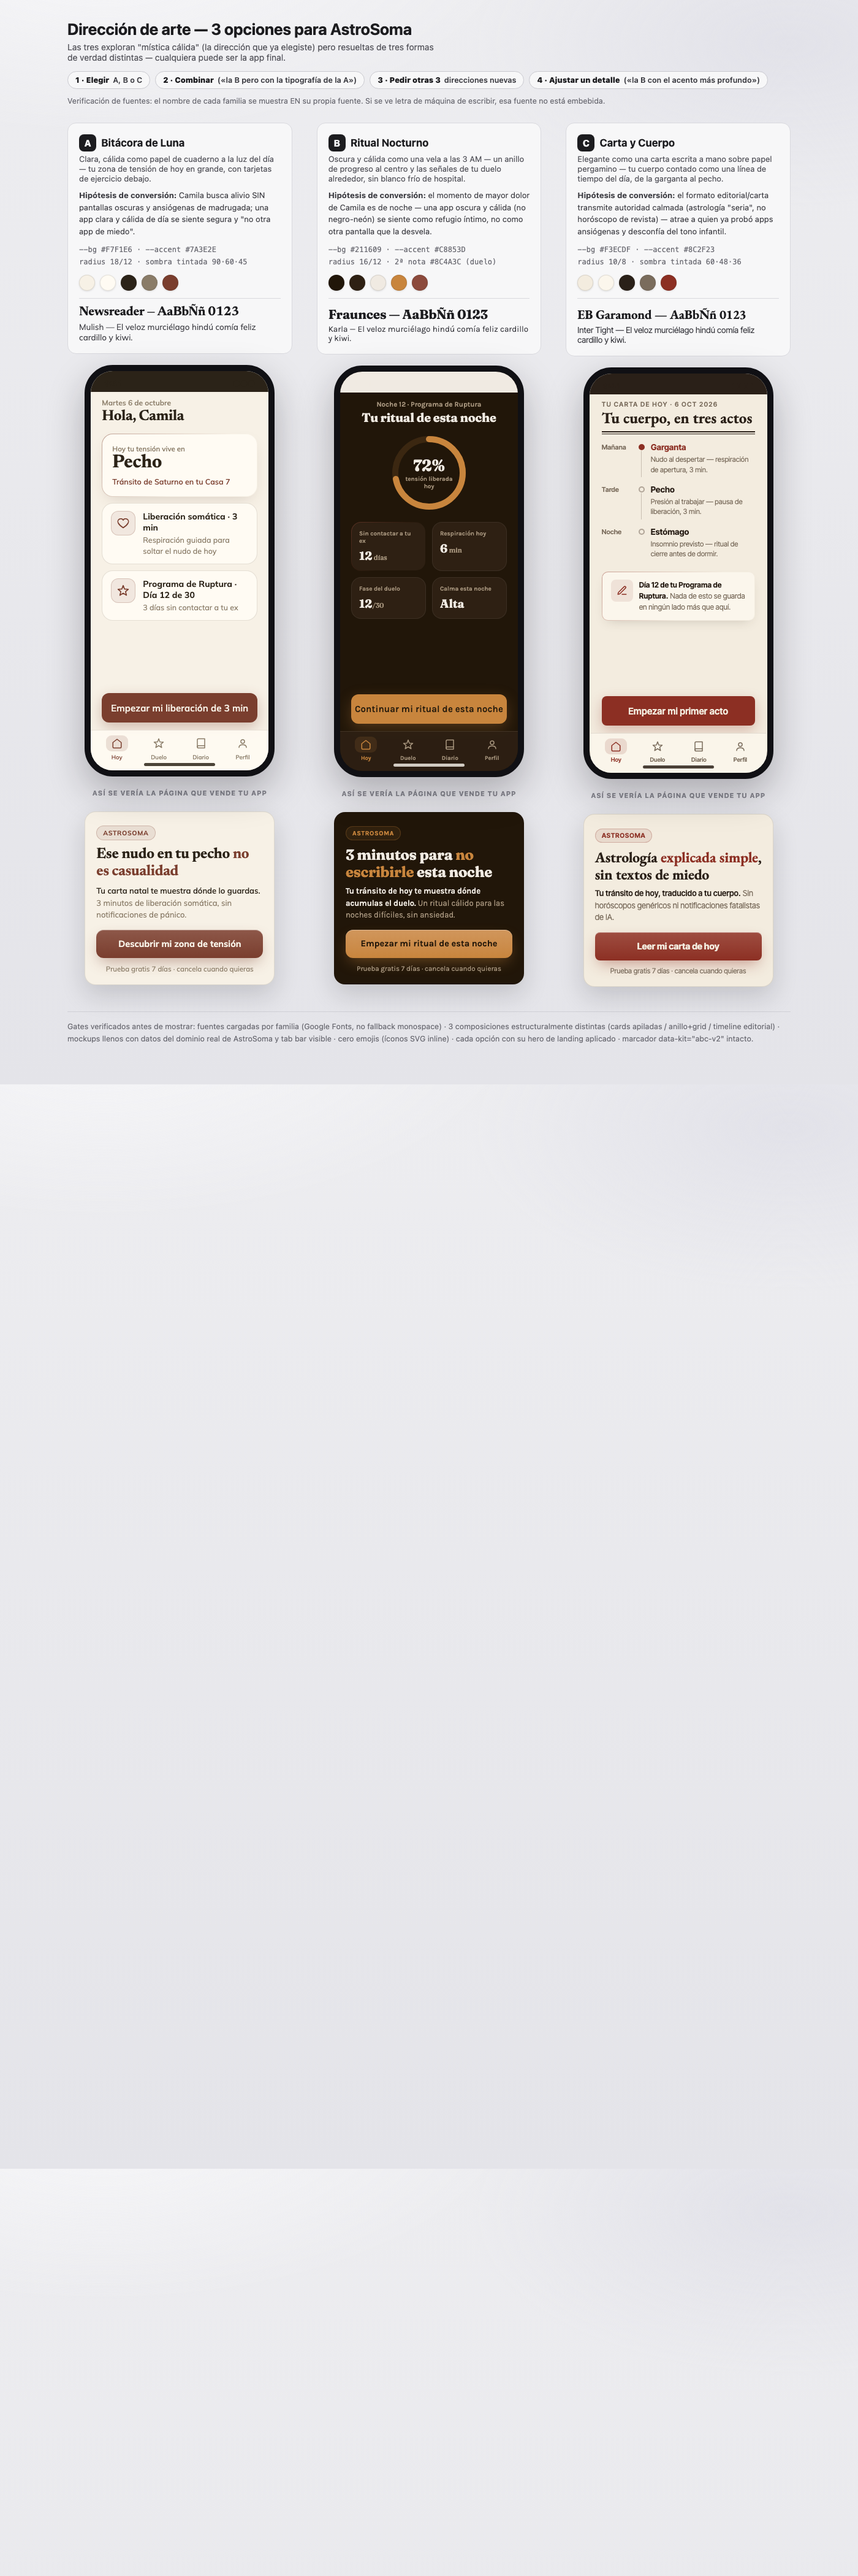
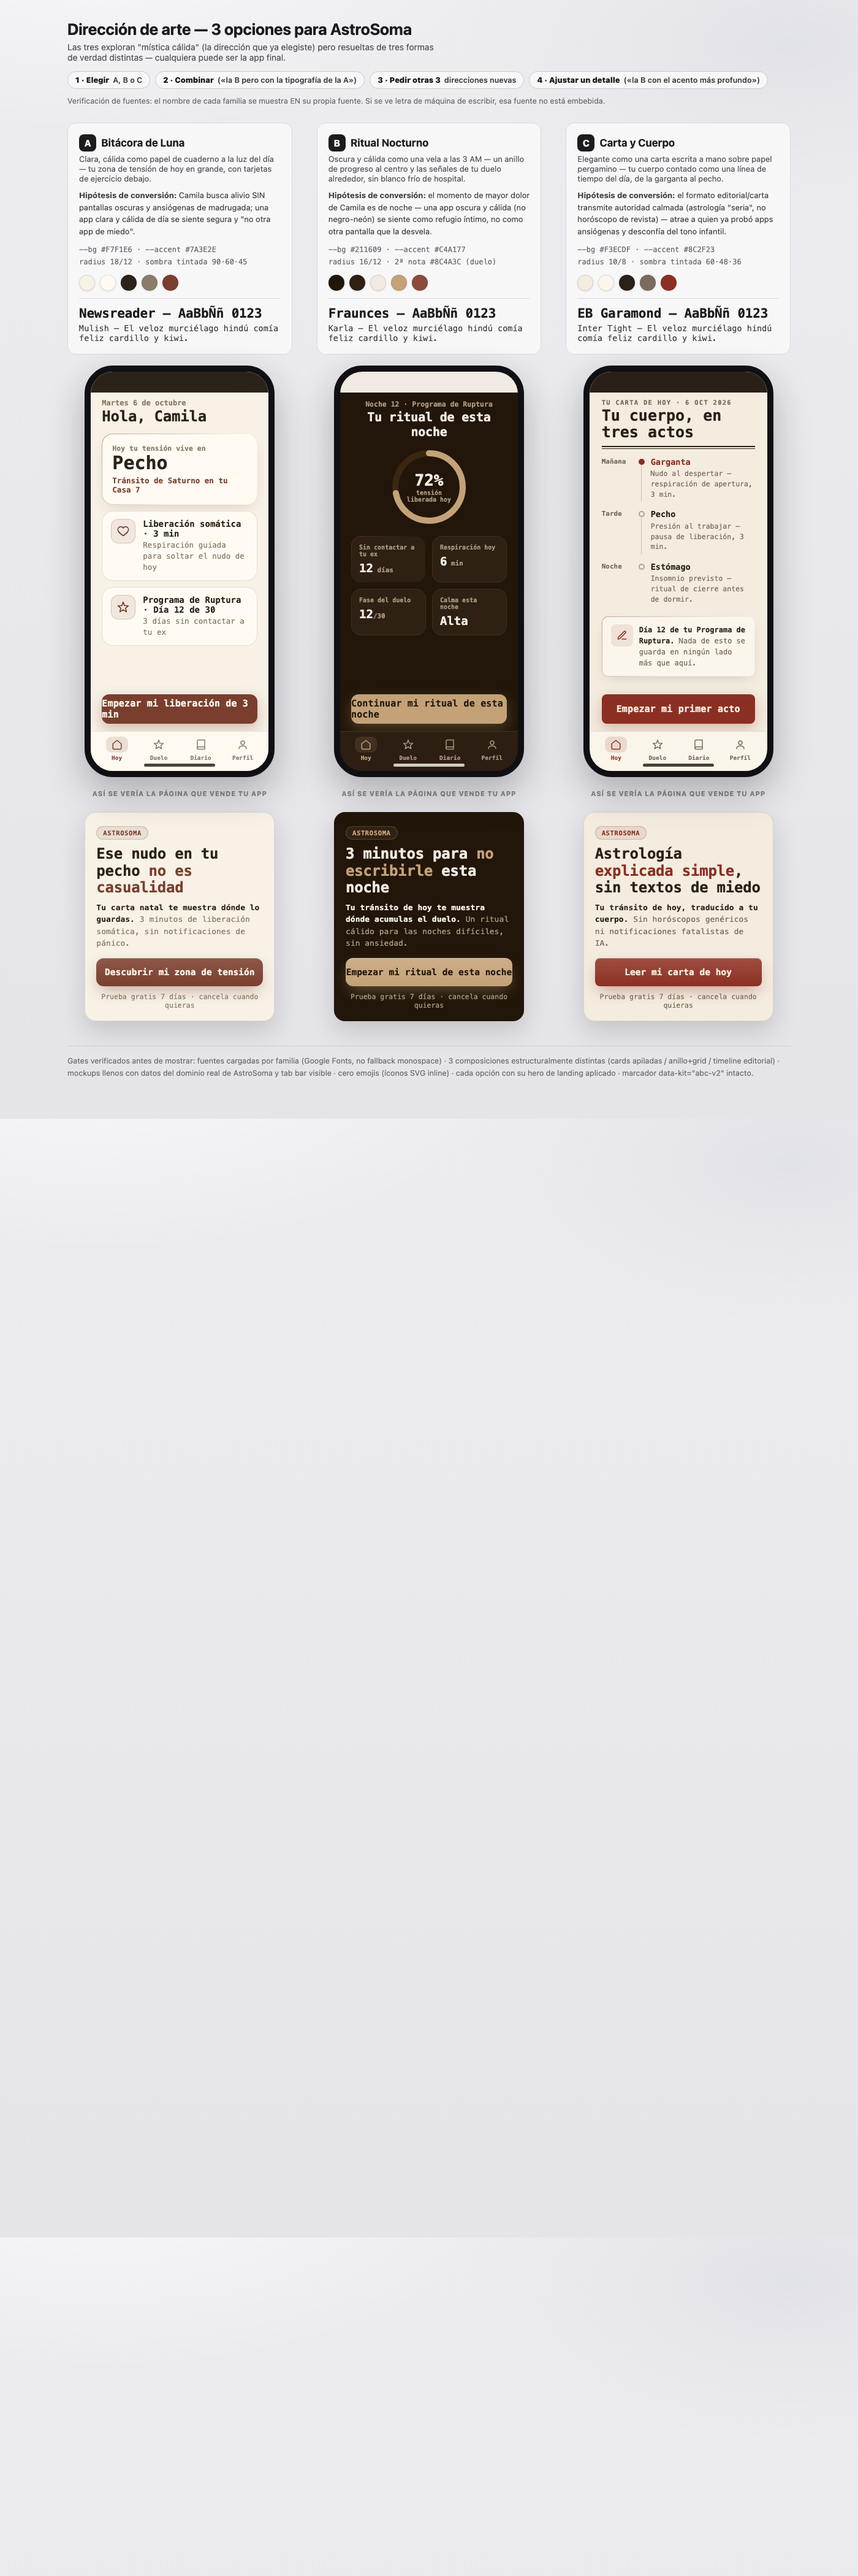
Suaviza el acento ámbar a un tono más beige a pedido del usuario

diff --git a/direcciones-abc.html b/direcciones-abc.html
@@ -141,7 +141,7 @@
   /* ============ OPCIÓN B — "Ritual Nocturno" — oscura cálida, anillo + grid 2x2 ============ */
   .op-b {
     --bg: #211609; --surface: #2E2013; --text-1: #F0EAE2; --text-2: #A9977F;
-    --accent: #C8853D; --accent2: #8C4A3C; --radius-card: 16px; --radius-btn: 12px;
+    --accent: #C4A177; --accent2: #8C4A3C; --radius-card: 16px; --radius-btn: 12px;
     --font-display: 'Fraunces', monospace; --font-body: 'Karla', monospace;
     --shadow-tinta: 10 8 6;
   }
@@ -287,10 +287,10 @@
       <h2><span class="letra">B</span> Ritual Nocturno</h2>
       <p class="direccion">Oscura y cálida como una vela a las 3 AM — un anillo de progreso al centro y las señales de tu duelo alrededor, sin blanco frío de hospital.</p>
       <p class="hipotesis"><strong>Hipótesis de conversión:</strong> el momento de mayor dolor de Camila es de noche — una app oscura y cálida (no negro-neón) se siente como refugio íntimo, no como otra pantalla que la desvela.</p>
-      <ul class="tokens"><li>--bg #211609 · --accent #C8853D</li><li>radius 16/12 · 2ª nota #8C4A3C (duelo)</li></ul>
+      <ul class="tokens"><li>--bg #211609 · --accent #C4A177</li><li>radius 16/12 · 2ª nota #8C4A3C (duelo)</li></ul>
       <div class="paleta" aria-hidden="true">
         <span style="background:#211609"></span><span style="background:#2E2013"></span>
-        <span style="background:#F0EAE2"></span><span style="background:#C8853D"></span>
+        <span style="background:#F0EAE2"></span><span style="background:#C4A177"></span>
         <span style="background:#8C4A3C"></span>
       </div>
       <div class="especimen">
@@ -308,7 +308,7 @@
         <div class="anillo-wrap">
           <svg width="128" height="128" viewBox="0 0 128 128" role="img" aria-label="Tensión liberada 72 por ciento">
             <circle cx="64" cy="64" r="55" fill="none" stroke-width="10" stroke="rgba(200,133,61,0.16)"/>
-            <circle cx="64" cy="64" r="55" fill="none" stroke-width="10" stroke="#C8853D" stroke-linecap="round" stroke-dasharray="345.6" stroke-dashoffset="96.8" transform="rotate(-90 64 64)"/>
+            <circle cx="64" cy="64" r="55" fill="none" stroke-width="10" stroke="#C4A177" stroke-linecap="round" stroke-dasharray="345.6" stroke-dashoffset="96.8" transform="rotate(-90 64 64)"/>
           </svg>
           <div class="centro"><span class="pct">72%</span><span class="pct-label">tensión liberada hoy</span></div>
         </div>

diff --git a/vista-previa-app.html b/vista-previa-app.html
@@ -32,7 +32,7 @@
 
   :root {
     --bg: #211609; --surface: #2E2013; --text-1: #F0EAE2; --text-2: #A9977F;
-    --accent: #C8853D; --accent2: #8C4A3C; --radius-card: 16px; --radius-btn: 12px;
+    --accent: #C4A177; --accent2: #8C4A3C; --radius-card: 16px; --radius-btn: 12px;
     --font-display: 'Fraunces', serif; --font-body: 'Karla', sans-serif;
   }
   .telefono { width: 300px; margin: 0 auto; aspect-ratio: 9 / 19.5; border: 10px solid #101014; border-radius: 44px; box-shadow: 0 24px 60px rgb(20 18 24 / 0.28); overflow: hidden; position: relative; display: flex; flex-direction: column; background: var(--bg); }
@@ -135,7 +135,7 @@
         <div class="anillo-wrap">
           <svg width="116" height="116" viewBox="0 0 116 116" role="img" aria-label="72 por ciento">
             <circle cx="58" cy="58" r="50" fill="none" stroke-width="9" stroke="rgba(200,133,61,0.16)"/>
-            <circle cx="58" cy="58" r="50" fill="none" stroke-width="9" stroke="#C8853D" stroke-linecap="round" stroke-dasharray="314" stroke-dashoffset="88" transform="rotate(-90 58 58)"/>
+            <circle cx="58" cy="58" r="50" fill="none" stroke-width="9" stroke="#C4A177" stroke-linecap="round" stroke-dasharray="314" stroke-dashoffset="88" transform="rotate(-90 58 58)"/>
           </svg>
           <div class="centro"><span class="pct">72%</span><span class="pct-label">tensión liberada hoy</span></div>
         </div>

diff --git a/FICHA-ARTE.md b/FICHA-ARTE.md
@@ -19,7 +19,7 @@
 
 ## Brand kit final
 - Fondo: `#211609` (café oscuro — ajustado a pedido del usuario, más cálido que negro puro; ritual nocturno, coherente con la escena de la 1AM/3AM del avatar) · Superficie: `#2E2013` · Hundido: `#160E05` · Texto 1º: `#F0EAE2` · Texto 2º: `#A9977F`
-- Acento: `#C8853D` (ámbar candela — tomado del banco 54 "Journaling/diario"; SOLO en CTAs, progreso y momentos de logro) · 2ª nota: `#8C4A3C` (burdeos — porqué: pedido explícito del usuario en la dirección "mística cálida"; se usa solo en el módulo de Duelo/Ruptura para diferenciar ese contexto emocional del resto de la app)
+- Acento: `#C4A177` (beige-dorado — derivado del ámbar candela del banco 54 "Journaling/diario", aclarado y desaturado a pedido del usuario; SOLO en CTAs, progreso y momentos de logro) · 2ª nota: `#8C4A3C` (burdeos — porqué: pedido explícito del usuario en la dirección "mística cálida"; se usa solo en el módulo de Duelo/Ruptura para diferenciar ese contexto emocional del resto de la app)
 - Semánticos: éxito `#7A9E6E` (verde salvia, no verde chillón) · error `#B85C4D` (terracota-rojo, coherente con la paleta) · aviso `#D4A24C`
 - Display: serif humanista cálida (ej. familia tipo Fraunces/Lora — se confirma candidata final en la sesión de código) pesos 400/600 · Body: sans humanista (ej. tipo Inter/Karla) pesos 400/500 · Escala: display 32px / title 22px / body 16px / label 13px
 - Radio: 20px · Profundidad: sombras sutiles de 1 nivel (nada de glass ni glow) · Espaciado base: escala 4·8·12·16·24·32·48·64
